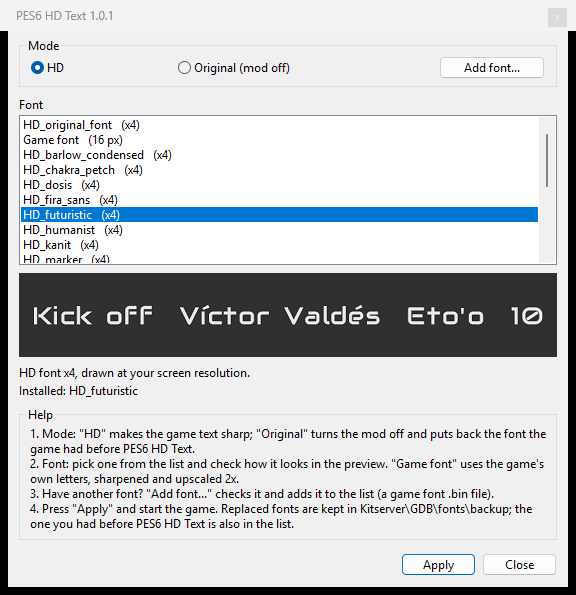
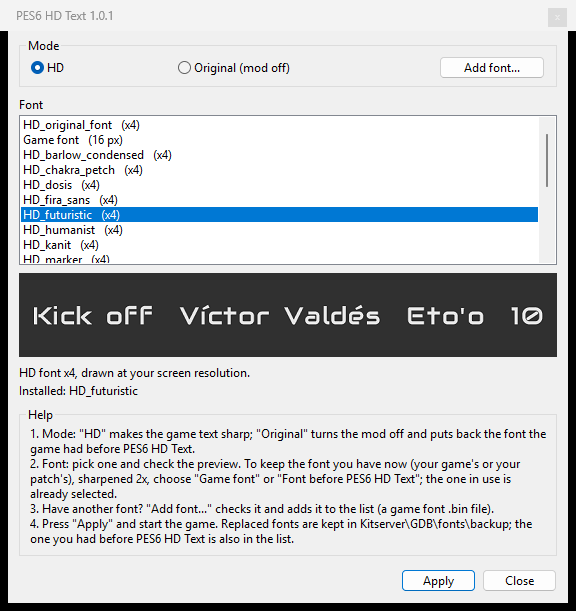
v1.0.1: sección "Using it with your patch's font"
Los cuatro casos con la fuente de un parche: dejarla nítida (HD + Apply,
ya viene elegida), cambiarla por una HD, volver a ella con el mod o sin el
mod (Original). Dónde aparece en la lista según dónde la tenga el parche
("Game font" o "Font before PES6 HD Text"). También en la parte en
español, y la captura nueva de la herramienta.

diff --git a/README.md b/README.md
@@ -4,7 +4,7 @@
 
 A Kitserver 6 module for Pro Evolution Soccer 6 (PC) by **pitycharly**. Version 1.0.1.
 
-**[⬇ Download PES6 HD Text 1.0.1](https://github.com/angelballay/pes6-hd-text/releases/latest)** · [What's new](#whats-new-in-101) · [Install](#install) · [Choosing a font](#choosing-a-font) · [Compatibility](#compatibility) · [Known limitations](#known-limitations) · [Changelog](CHANGELOG.md) · [Español](#español)
+**[⬇ Download PES6 HD Text 1.0.1](https://github.com/angelballay/pes6-hd-text/releases/latest)** · [What's new](#whats-new-in-101) · [Install](#install) · [Choosing a font](#choosing-a-font) · [With your patch's font](#using-it-with-your-patchs-font) · [Compatibility](#compatibility) · [Known limitations](#known-limitations) · [Changelog](CHANGELOG.md) · [Español](#español)
 
 ## What's new in 1.0.1
 
@@ -232,6 +232,24 @@ Requires **Kitserver 6** with `afs2fs.dll` loaded in `kload.cfg` (it comes with 
 - Fonts live in `Kitserver\GDB\fonts`, and the installed one is copied to `Kitserver\dat\0_text.afs`. Every replaced font is kept in `Kitserver\GDB\fonts\backup`, and the one you had before PES6 HD Text stays in the list as "Font before PES6 HD Text".
 - Windows asks for permission when you open it, because it writes in the game folder (often inside Program Files).
 
+## Using it with your patch's font
+
+PES6 HD Text works with the font your patch already has. Open `pes6_hd_text.exe` and choose:
+
+| You want | In `pes6_hd_text.exe` |
+|---|---|
+| **Your patch's font, sharpened 2x** | Leave **HD** and the selected font as they are, and press **Apply**. The font in use is already selected. |
+| **An HD font instead** | **HD**, pick an `HD_…` font, **Apply**. Your patch's font is saved and stays in the list. |
+| **Back to your patch's font, still sharp** | **HD**, select it again, **Apply**. |
+| **Back to your patch's font, without the mod** | **Original (mod off)**, **Apply**. The font comes back exactly as the patch had it, and the mod stops doing anything. |
+
+Where your patch's font shows up in the list:
+
+- **"Game font"** if the patch keeps it inside the game's own files (`dat\0_text.afs`), as PES 6 The Den Patch 2026 does. "Installed" then says *game font (The Den Patch 2026)*.
+- **"Font before PES6 HD Text"** if the patch installed it with Kitserver (`Kitserver\dat\0_text.afs\unknow_00053.bin` or `unnamed_53*.bin`). The first time you open the tool, it is copied to `Kitserver\GDB\fonts\backup\before_pes6_hd_text`.
+
+If your patch ships a font that is already bigger than the original (an HD font), the mod detects it and uses it as HD by itself.
+
 ## Uninstall
 
 1. Run `pes6_hd_text.exe`, choose **Original (mod off)** and press **Apply**. This puts back the font you had before.
@@ -371,6 +389,15 @@ Los menús, los nombres de jugadores y de equipos y los títulos se ven nítidos
 5. A jugar.
 
 **Elegir la fuente:** en `pes6_hd_text.exe`, **HD** activa el mod con la fuente que elijas de la lista, y **Original (mod off)** lo apaga y vuelve a poner la fuente que tenías antes. Cada fuente reemplazada queda guardada en `Kitserver\GDB\fonts\backup`.
+
+**Con la fuente de tu parche:** abrí `pes6_hd_text.exe` y elegí:
+
+- **Tu fuente, nítida (x2):** dejá **HD** y la fuente elegida como están y apretá **Apply** (la que usás ya aparece seleccionada).
+- **Una fuente HD:** **HD**, elegí una `HD_…` y **Apply**. La de tu parche queda guardada en la lista.
+- **Volver a tu fuente, nítida:** **HD**, volvé a elegirla y **Apply**.
+- **Volver a tu fuente, sin el mod:** **Original (mod off)** y **Apply**. Vuelve tal como la tenía el parche y el mod deja de hacer cosas.
+
+En la lista, la fuente de tu parche es **"Game font"** si el parche la trae dentro de los archivos del juego (como The Den Patch 2026), o **"Font before PES6 HD Text"** si la instaló con Kitserver.
 
 **Desinstalar:** en `pes6_hd_text.exe` elegí **Original (mod off)** y apretá **Apply**. Después borrá la línea de `kload.cfg`, volvé `DLL.num` a su valor anterior y borrá `pes6_hd_text.dll`, `pes6_hd_text.exe`, `pes6_hd_text.cfg` y la carpeta `Kitserver\GDB\fonts`. No dejes una fuente HD instalada sin la DLL: el juego solo no puede cargarla.
 
